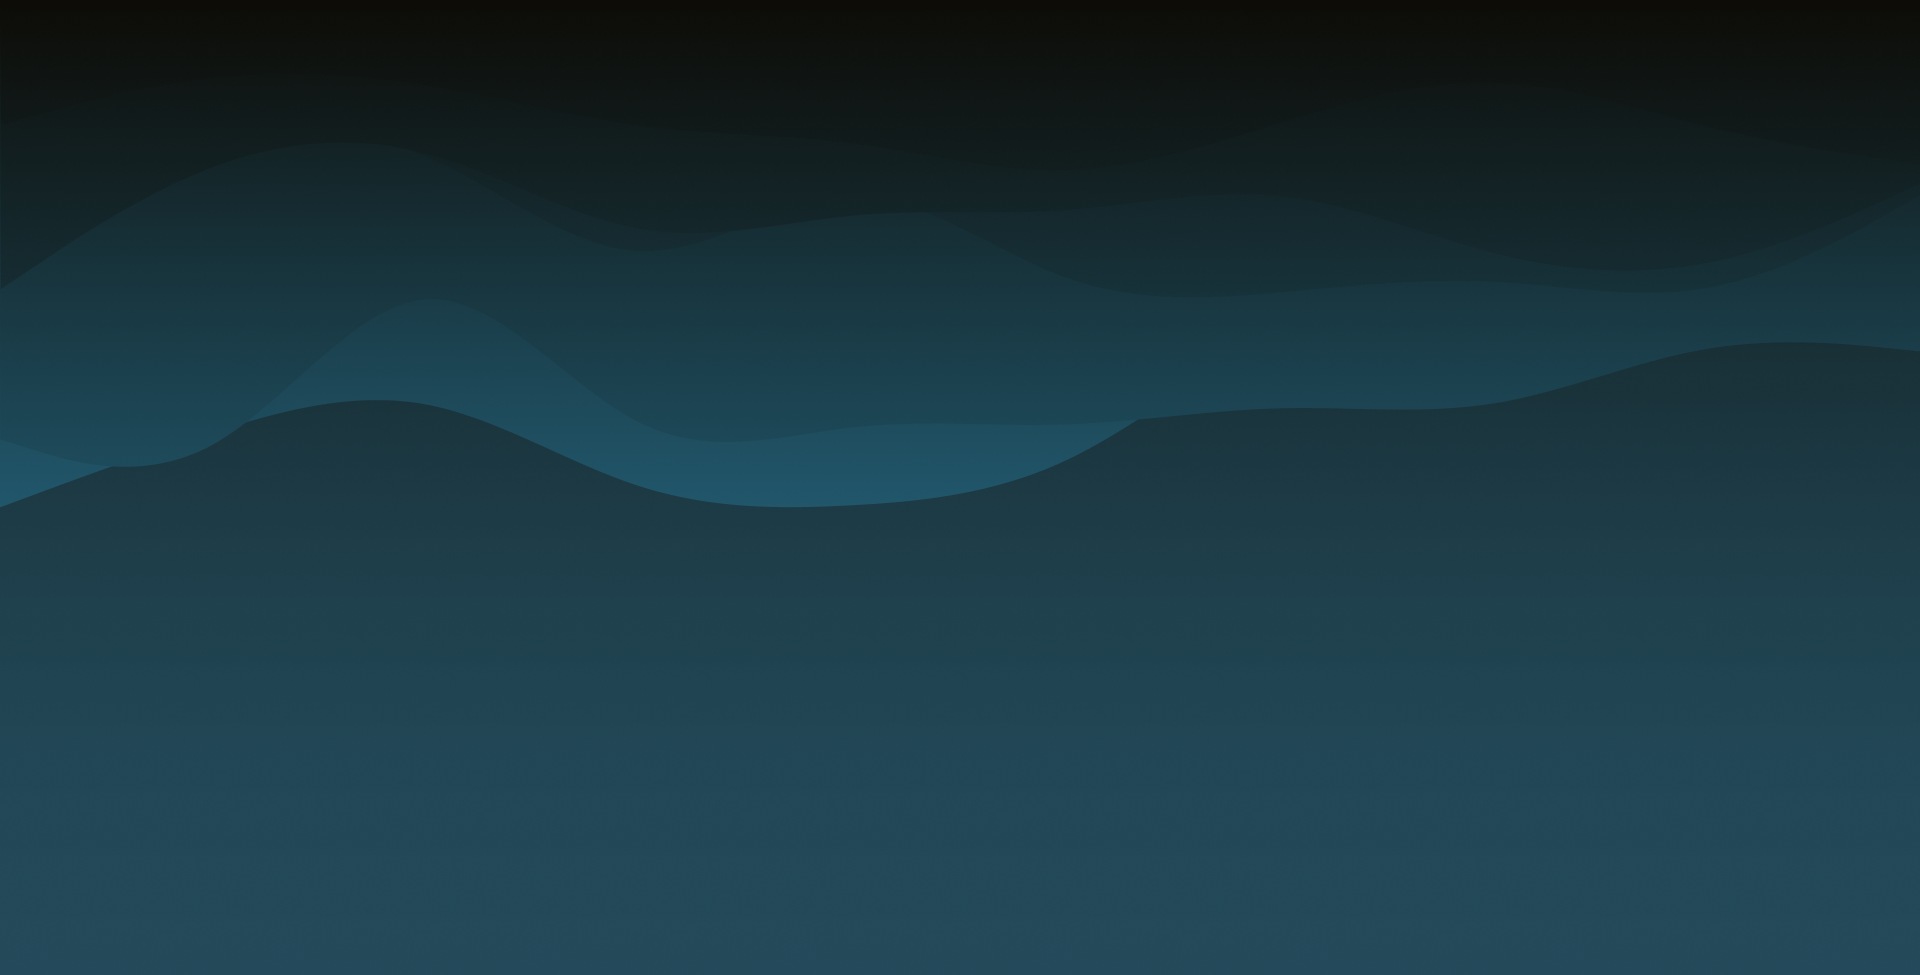
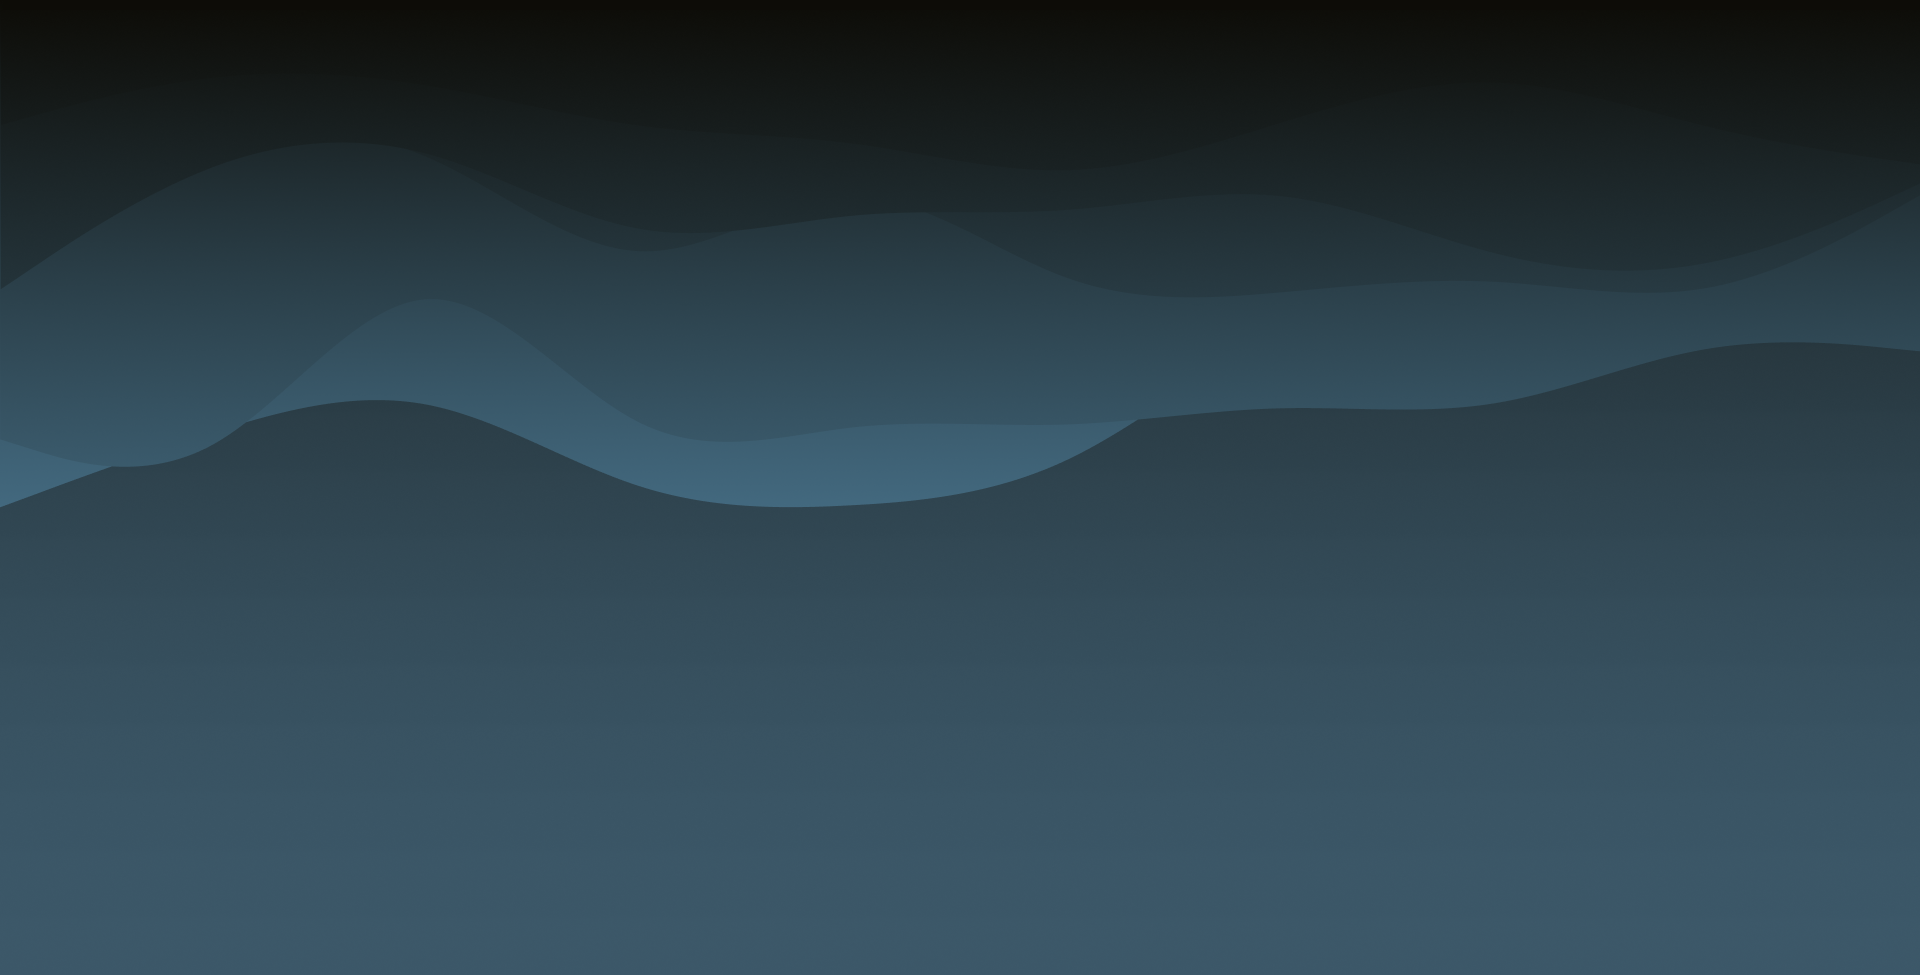
Color change

diff --git a/index.html b/index.html
@@ -2,6 +2,8 @@
 <html lang="en">
 
 <head>
+    <title>40Hz-H20</title>
+    <meta name="viewport" content="width=device-width, initial-scale=1" /> 
     <script src="https://cdnjs.cloudflare.com/ajax/libs/p5.js/1.6.0/p5.js"></script>
     <script src="https://cdnjs.cloudflare.com/ajax/libs/p5.js/1.6.0/addons/p5.sound.min.js"></script>
     <script src="https://cdnjs.cloudflare.com/ajax/libs/jquery/3.5.1/jquery.js"></script>
@@ -53,7 +55,7 @@
                         <div class="ellipse-listen"></div>
                         <div id="sketch-listen"></div>
                         <text-box class="paragraph">
-                            <p>Sand on plates resonating at varying frequencies take on captivating two-dimensional standing wave patterns, characterized by distinct nodes. The accompanying interactive offers a graphical depiction of these nodal patterns across a range of frequencies. This is how we will create architecture using sound as impactful material. <br><br> Do you feel it now that you can see it? <br> These patterns and visuals are constantly moving around us even though we never see them.</p>
+                            <p>Sand on plates resonating at varying frequencies take on captivating two-dimensional standing wave patterns, characterized by distinct nodes. The accompanying interactive offers a graphical depiction of these nodal patterns across a range of frequencies. <br><br> Now that you can see it, do you feel it? <br> These patterns and visuals are constantly moving around us even though we never see them.</p>
                         </text-box>
                     </listen-content>
                 </intro-listen>
@@ -78,27 +80,27 @@
                             <div class="Top2-rect"></div>
                         </div>
                         <div class="Top3">
-                            <sum-text>properties of water. We aim to challenge common Western
+                            <sum-text>properties of water. We aim to challenge common Western 
                             </sum-text>
                             <div class="Top3-rect"></div>
                         </div>
                         <div class="Top4">
-                            <sum-text>misappropriation of the ‘sound bath’. 40Hz&amp;H20 explores
+                            <sum-text>misappropriation of the ‘sound bath’ as a shallow, quasi-spiritual 
                             </sum-text>
                             <div class="Top4-rect"></div>
                         </div>
                         <div class="Top5">
-                            <sum-text>possibilities within the realm of space and frequency,
+                            <sum-text>experience. Instead, 40Hz&amp;H20 explores possibilities within 
                             </sum-text>
                             <div class="Top5-rect"></div>
                         </div>
                         <div class="Top6">
-                            <sum-text>intending to create an inspiring, soothing space for
+                            <sum-text>the realm of space and frequency, intending to create 
                             </sum-text>
                             <div class="Top6-rect"></div>
                         </div>
                         <div class="Top7">
-                            <sum-text>participants.
+                            <sum-text>an inspiring, soothing space for participants.
                             </sum-text>
                             <div class="Top7-rect"></div>
                         </div>

diff --git a/soundline.js b/soundline.js
@@ -30,8 +30,8 @@ var s1 = function (sketch) {
         //    console.log(sketch.getAudioContext().state);
         var vol = mic.getLevel();
         let which = sketch.frameCount % num;
-        let posY = sketch.map(vol, 0.0, 0.2, sketch.height, 0);
-        let posX = sketch.map(vol, 0.0, 0.2, sketch.width, 0);
+        let posY = sketch.map(vol, 0.0, 0.1, sketch.height, 0);
+        let posX = sketch.map(vol, 0.0, 0.1, sketch.width, 0);
         mx[which] = posX;
         my[which] = posY;
 
@@ -56,29 +56,29 @@ let s2 = function (sketcha) {
 
     var hz161, hz89, hz230, hz346, hz478, hz590;
 
-//    sketcha.preload = function () {
-//        // Load sounds here
-//        console.log("Loading sounds...");
-//        hz161 = sketcha.loadSound("assets/161Hz.mp3", function () {
-//            console.log("Loaded hz161");
-//        });
-//        hz89 = sketcha.loadSound("assets/89Hz.mp3", function () {
-//            console.log("Loaded hz89");
-//        });
-//        hz230 = sketcha.loadSound("assets/230Hz.mp3", function () {
-//            console.log("Loaded hz230");
-//        });
-//        hz346 = sketcha.loadSound("assets/346Hz.mp3", function () {
-//            console.log("Loaded hz346");
-//        });
-//        hz478 = sketcha.loadSound("assets/478hz.mp3", function () {
-//            console.log("Loaded hz478");
-//        });
-//
-//        hz590 = sketcha.loadSound("assets/590Hz.mp3", function () {
-//            console.log("Loaded hz590")
-//        });
-//    }
+    //    sketcha.preload = function () {
+    //        // Load sounds here
+    //        console.log("Loading sounds...");
+    //        hz161 = sketcha.loadSound("assets/161Hz.mp3", function () {
+    //            console.log("Loaded hz161");
+    //        });
+    //        hz89 = sketcha.loadSound("assets/89Hz.mp3", function () {
+    //            console.log("Loaded hz89");
+    //        });
+    //        hz230 = sketcha.loadSound("assets/230Hz.mp3", function () {
+    //            console.log("Loaded hz230");
+    //        });
+    //        hz346 = sketcha.loadSound("assets/346Hz.mp3", function () {
+    //            console.log("Loaded hz346");
+    //        });
+    //        hz478 = sketcha.loadSound("assets/478hz.mp3", function () {
+    //            console.log("Loaded hz478");
+    //        });
+    //
+    //        hz590 = sketcha.loadSound("assets/590Hz.mp3", function () {
+    //            console.log("Loaded hz590")
+    //        });
+    //    }
 
     sketcha.setup = function () {
         wi = sketcha.windowHeight * 0.55;
@@ -142,7 +142,7 @@ let s2 = function (sketcha) {
                 var hue = equationValue < 0 ? 0 : 200; // color negative values red, positive values blue
                 var saturation = 1;
                 var brightness = 1;
-                sketcha.fill(46, 134, 171, hue);
+                sketcha.fill(101, 164, 203, hue);
                 sketcha.noStroke(); // disable filling
                 sketcha.ellipse(x1, y1, gridSize, gridSize); // draw rectangle instead of square
             }

diff --git a/style.css b/style.css
@@ -349,7 +349,7 @@ intro-heal.active2 #heal-title {
     width: 56vw;
     height: 55px;
     top: -.5vw;
-    background: #2e86ab ;
+    background: #65A4CB;
     filter: blur(2.5px);
     border-radius: 5px;
 }
@@ -378,7 +378,7 @@ intro-heal.active2 #heal-title {
     position: relative;
     width: 54vw;
     top: 0.625vw;
-    background: rgba(46, 134, 171, 0.9);
+    background: rgba(101,164,203, 0.9);
     filter: blur(2px);
 }
 
@@ -398,7 +398,7 @@ intro-heal.active2 #heal-title {
     position: relative;
     width: 51vw;
     top: 0.625vw;
-    background: rgba(46, 134, 171, 0.81);
+    background: rgba(101,164,203, 0.81);
     filter: blur(3px);
 }
 
@@ -424,7 +424,7 @@ intro-heal.active2 #heal-title {
     position: relative;
     width: 48vw;
     top: 0.625vw;
-    background: rgba(46, 134, 171, 0.7);
+    background: rgba(101,164,203, 0.7);
     filter: blur(4px);
 }
 
@@ -450,7 +450,7 @@ intro-heal.active2 #heal-title {
     position: relative;
     width: 46vw;
     top: 0.625vw;
-    background: rgba(46, 134, 171, 0.6);
+    background: rgba(101,164,203, 0.6);
     filter: blur(5px);
 }
 
@@ -464,7 +464,7 @@ intro-heal.active2 #heal-title {
     position: relative;
     width: 43vw;
     top: 0.625vw;
-    background: rgba(46, 134, 171, 0.5);
+    background: rgba(101,164,203, 0.5);
     filter: blur(6.5px);
 }
 
@@ -503,7 +503,7 @@ intro-heal.active2 #heal-title {
     position: relative;
     width: 40vw;
     top: 0.625vw;
-    background: rgba(46, 134, 171, 0.4);
+    background: rgba(101,164,203, 0.4);
     filter: blur(7.5px);
 }
 
@@ -529,7 +529,7 @@ intro-heal.active2 #heal-title {
     position: relative;
     width: 37vw;
     top: 0.625vw;
-    background: rgba(46, 134, 171, 0.2);
+    background: rgba(101,164,203, 0.2);
     filter: blur(7.5px);
 }
 
@@ -549,7 +549,7 @@ intro-heal.active2 #heal-title {
     position: relative;
     width: 35vw;
     top: 0.625vw;
-    background: rgba(46, 134, 171, 0.1);
+    background: rgba(101,164,203, 0.1);
     filter: blur(10px);
 }
 
@@ -638,7 +638,7 @@ sum-text {
     top: 0vh;
     border-radius: 50%;
 
-    background: radial-gradient(50% 50% at 50% 50%, rgba(13, 12, 7, 0.72) 72.92%, #2e86ab 100%);
+    background: radial-gradient(50% 50% at 50% 50%, rgba(13, 12, 7, 0.72) 72.92%, #65A4CB 100%);
 }
 
 .ellipse-listen {
@@ -650,7 +650,7 @@ sum-text {
     border-radius: 50%;
     z-index: 0;
 
-    background: radial-gradient(50% 50% at 50% 50%, #2e86ab  0%, #0D0C07 100%);
+    background: radial-gradient(50% 50% at 50% 50%, #65A4CB 0%, #0D0C07 100%);
 }
 
 intro-slides {
